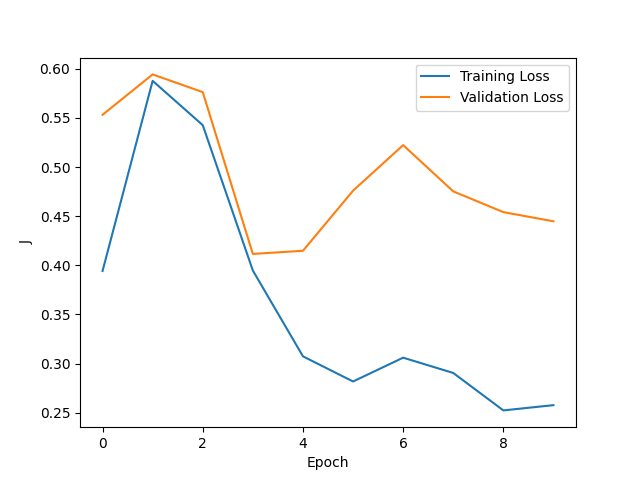
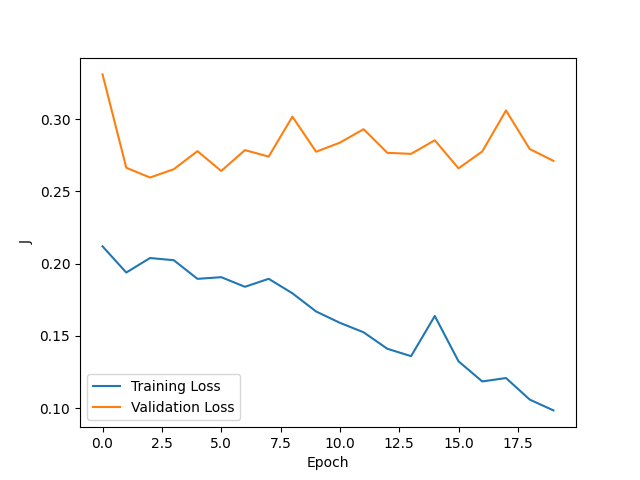
update

diff --git a/lenet.py b/lenet.py
@@ -20,43 +20,42 @@ cifa10_test = util.unpickle("cifar-10-batches-py/test_batch")
 cifa10_test_grey_images, cifa10_test_labels = util.convert_images_to_gray(cifa10_test)
 cifa10_test_grey_images /= 255 # normalize to [0,1]
 
-print("Size of training data:", cifar10_grey_images.shape)
-print("Size of validation data:", cifa10_test_grey_images.shape)
-
-X_train = cifar10_grey_images
+X_train = cifar10_grey_images.squeeze()
 Y_train = cifar10_labels
-X_test = cifa10_test_grey_images
+X_test = cifa10_test_grey_images.squeeze()
 Y_test = cifa10_test_labels
 
 Y_train_encoded = util.one_hot_array(Y_train, 10)
 Y_test_encoded = util.one_hot_array(Y_test, 10)
 
+print("Size of training data:", X_train.shape)
+print("Size of validation data:", X_test.shape)
 print("Size of training labels:", Y_train_encoded.shape)
 print("Size of validation labels:", Y_test_encoded.shape)
 
-convLayer1 = layers.Conv2DLayer(filters=6, kernel_size=(3, 3), stride=1, padding=0)
+convLayer1 = layers.Conv2DLayer(filters=6, kernel_size=(5, 5), stride=1)
 tanhLayer1 = layers.TanhLayer()
 poolingLayer1 = layers.PoolingLayer(2, 2)
-# convLayer2 = layers.Conv3DLayer(filters=16, kernel_size=(3, 3), stride=1, padding=0)
-# tanhLayer2 = layers.TanhLayer()
-# poolingLayer2 = layers.PoolingLayer(2, 2)
+convLayer2 = layers.Conv3DLayer(filters=16, kernel_size=(5, 5), stride=1)
+tanhLayer2 = layers.TanhLayer()
+poolingLayer2 = layers.PoolingLayer(2, 2)
 flattenLayer = layers.FlattenLayer()
-# fcLayer3 = layers.FullyConnectedLayer(3456, 120, xavier_init = True)
-# tanhLayer3 = layers.TanhLayer()
-fcLayer4 = layers.FullyConnectedLayer(1350, 84, xavier_init = True)
+fcLayer3 = layers.FullyConnectedLayer(2400, 120, xavier_init = True)
+tanhLayer3 = layers.TanhLayer()
+fcLayer4 = layers.FullyConnectedLayer(120, 84, xavier_init = True)
 tanhLayer4 = layers.TanhLayer()
 fcLayer5 = layers.FullyConnectedLayer(84, 10, xavier_init = True)
 softmaxLayer = layers.SoftmaxLayer()
 crossEntropyLoss = layers.CrossEntropy()
-lenet = [convLayer1, tanhLayer1, poolingLayer1, flattenLayer, 
-        #  convLayer2, tanhLayer2, poolingLayer2, 
-        #  fcLayer3, tanhLayer3, 
+lenet = [convLayer1, tanhLayer1, poolingLayer1,
+         convLayer2, tanhLayer2, poolingLayer2, flattenLayer, 
+         fcLayer3, tanhLayer3, 
          fcLayer4, tanhLayer4, 
          fcLayer5, softmaxLayer, crossEntropyLoss]
 
-util.train_model(lenet, X_train[:100], Y_train_encoded[:100], X_test[:20], Y_test_encoded[:20], "lenet", 
-                 learning_rate = 0.01, 
-                 max_epochs = 10, 
-                 batch_size = 20,
+util.train_model(lenet, X_train, Y_train_encoded, X_test, Y_test_encoded, "lenet", 
+                 learning_rate = 0.001, 
+                 max_epochs = 20, 
+                 batch_size = 1,
                  condition = 10e-10,
                  skip_first_layer=False)

diff --git a/src/layers.py b/src/layers.py
@@ -282,7 +282,7 @@ class Conv2DLayer(Layer):
         return np.array([self.backward2D(grad_i, gradIn_i) for gradIn_i, grad_i in zip(gradIn, grad)])
         
     def backward2D(self, grad, gradIn):
-        return np.array([self.convolve2D(np.pad(gradIn_i, grad_i.shape[0]-1, constant_values=0), grad_i) for gradIn_i, grad_i in zip(gradIn, grad)])
+        return np.array([self.convolve2D(np.pad(gradIn_i, self.kernel_size[0]-1, constant_values=0), grad_i) for gradIn_i, grad_i in zip(gradIn, grad)])
 
     def updateKernel(self, gradIn, epoch, learning_rate = 0.0001):
         for gradIn_i in gradIn:
@@ -320,7 +320,7 @@ class Conv3DLayer(Conv2DLayer):
         return np.array([self.backward2D(grad_i, gradIn_i) for gradIn_i, grad_i in zip(gradIn, grad)])
         
     def backward2D(self, grad, gradIn):
-        return np.array([self.convolve2D(np.pad(gradIn_i, grad_i.shape[0]-1, constant_values=0), grad_i) for gradIn_i, grad_i in zip(gradIn, grad)])
+        return np.array([self.convolve2D(np.pad(gradIn_i, self.kernel_size[0]-1, constant_values=0), grad_i) for gradIn_i, grad_i in zip(gradIn, grad)])
 
     def updateKernel(self, gradIn, epoch, learning_rate = 0.0001):
         for gradIn_i in gradIn:
